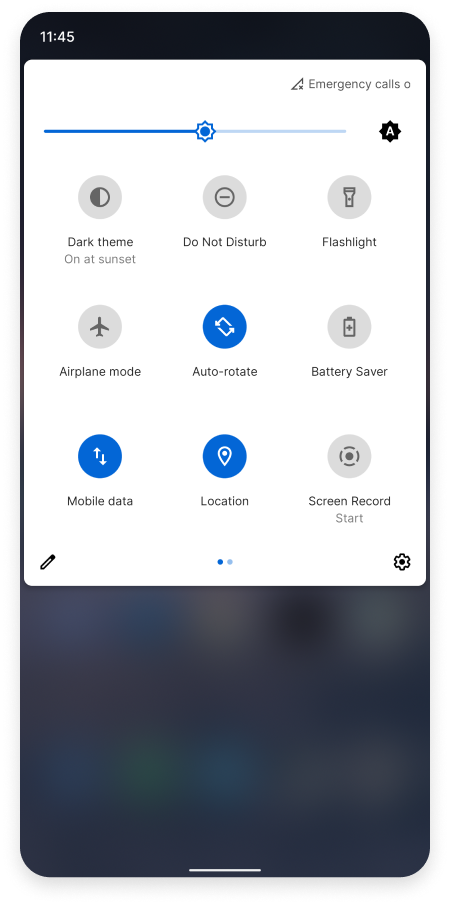
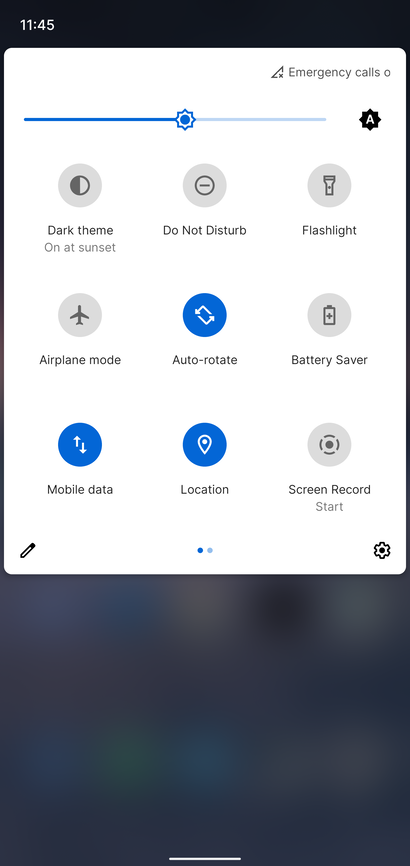
screenshots: Replace Figma renders with client-side effects
This simplifies the development workflow greatly and allows more control
over the actual images.

- RGB channel can be removed to reduce size
- High-quality Lanczos downscaling
- Higher-quality effects

diff --git a/docs/discover/screenshots.module.css b/docs/discover/screenshots.module.css
@@ -1,5 +1,13 @@
 .screenshotsContainer {
-    display: flex;
-    justify-content: center;
-    flex-wrap: wrap;
+  display: flex;
+  justify-content: center;
+  flex-wrap: wrap;
+}
+
+.screenshotsContainer img {
+  /* From Figma specs */
+  filter: drop-shadow(0px 4px 10px rgba(0, 0, 0, 0.15));
+  border-radius: 15px;
+  /* Figma reports 20px, but that doesn't work in CSS */
+  margin: 15px;
 }
